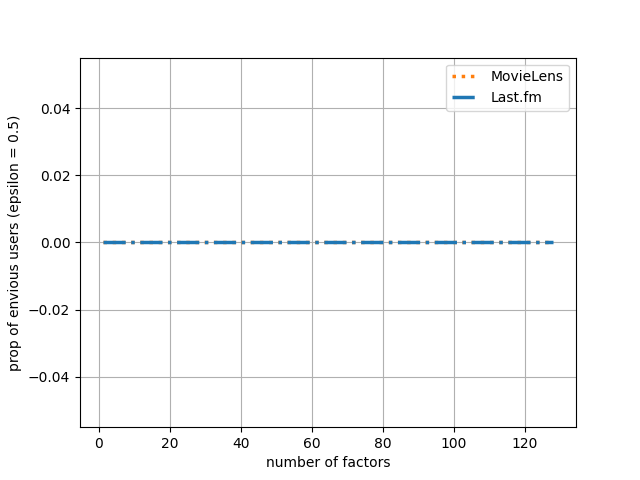
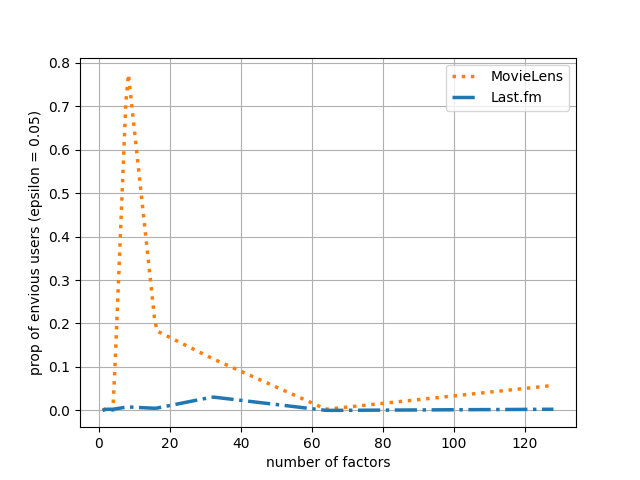
Custom logging

diff --git a/src/main.py b/src/main.py
@@ -112,6 +112,9 @@ if __name__ == "__main__":
     constant.MODELS_CHOSEN = model_choice
     my_globals = globals()
 
+    # Whether these pipeline modules are rebuild from scratch again
+    new_build = {"gt": False, "recommender": False}
+
     # For all datas sets requested by user generate recommender systems
     for label, name in data_sets_chosen.items(): 
         set_name = name.upper()
@@ -132,8 +135,10 @@ if __name__ == "__main__":
         log_path = helper.get_log_path(data_set)
 
         io.initialize_empty_file(log_path)
-        io.write_to_file(log_path, model_choice, mode="json")
         
+        if not path.exists(var_path_gt + constant.FILE_NAMES["gt"]):
+            new_build["gt"] = True
+
         # Generate ground truth matrix of user-item relevance scores
         exec(compile(open(data_set["filename"], "rb").read(), data_set["filename"], "exec"))
         
@@ -178,6 +183,7 @@ if __name__ == "__main__":
 
         # Generate models to simulate the recommender system's preference estimation
         if not path.exists(recommender_models_file_path):
+            new_build["recommender"] = True
             start = time.time()
             recommender_models = rec_generator.create_recommender_model(ground_truth, configurations, 
                                                                     rec_settings["ALGORITHM"], rec_settings["METRIC"], 
@@ -229,8 +235,9 @@ if __name__ == "__main__":
     # AUDITING EXPERIMENTS
     ##########################
     # Running option "all" experiments not yet supported
+        
+    # EXPERIMENT 5.1: sources of envy
     if experiment_choice == "5.1":
-        # EXPERIMENT 5.1: sources of envy
         for label, name in data_sets_chosen.items():
             data_set = data_sets[name]
             recommenders = os.listdir(constant.MODELS_FOLDER + data_set["var_folder"])    
@@ -251,7 +258,21 @@ if __name__ == "__main__":
         # Proportion of envious users plotted together
         # experiment.audits[0].params["basic"]["epsilon"]
         data = plot.gerenate_plot_data(data_sets_chosen, data_sets, "5.1", "prop_envious_users", "5.1_prop_envy_users")
-        plot.plot_experiment_line(data["lines"], "prop of envious users (epsilon = {})".format(0.5), "number of factors", data["labels"], data["linestyles"], data["colors"], data["file_name"], x_upper_bound=128)
+        plot.plot_experiment_line(data["lines"], "prop of envious users (epsilon = {})".format(0.05), "number of factors", data["labels"], data["linestyles"], data["colors"], data["file_name"], x_upper_bound=128)
 
-    # # # Try algorithm for one model
-    # # envy.OCEF(policies_fm[latent_factor], rewards_fm, 0, 3, 1, 1, 0)
+
+
+    # End of logging
+    for label, name in data_sets_chosen.items():
+        data_set = data_sets[name]
+        log_path = helper.get_log_path(data_set)
+
+        if new_build["gt"]:
+            io.write_to_file(log_path, "ground_truth_model")
+            io.write_to_file(log_path, model_choice[label]["ground_truth"], mode="json")
+        
+        if new_build["recommender"]:
+            io.write_to_file(log_path, "recommender_model")
+            io.write_to_file(log_path, model_choice[label]["recommender"], mode="json")
+        
+        io.write_to_file(log_path, "-------------------END---------------------")

diff --git a/src/classes/experiment.py b/src/classes/experiment.py
@@ -28,10 +28,12 @@ class Experiment(object):
             recommender = self.recommenders[i]
             audit = Audit(recommender)
             envy_per_user = audit.audit_envy(audit_mode="basic")
-            
+
+            # Average envy per user 
             latent_factor = recommender.params["latent_factor"]
             avg_envy_users[latent_factor] = np.mean(envy_per_user)
 
+            # Proportion envious users
             epsilon = audit.params["basic"]["epsilon"]
             prop_envious_users[latent_factor] = np.mean(envy_per_user > epsilon)
 

diff --git a/src/constant.py b/src/constant.py
@@ -6,8 +6,8 @@
 # Debug modus
 DEBUG = True
 DUMMY_DATA_SET_CHOICE = "all"
-DUMMY_MODEL_CHOICE = {"ground_truth": {"ALGORITHM": "als", "METRIC": "precision"}, 
-                        "recommender": {"ALGORITHM": "als", "METRIC": "precision", "normalize": False}} 
+DUMMY_MODEL_CHOICE = {"ground_truth": {"ALGORITHM": "als", "METRIC": "ndcg"}, 
+                        "recommender": {"ALGORITHM": "als", "METRIC": "ndcg", "normalize": True}} 
 DUMMY_EXPERIMENT_CHOICE = "5.1"
 
 

diff --git a/src/lib/helper.py b/src/lib/helper.py
@@ -77,7 +77,7 @@ def get_current_datetime():
     # datetime object containing current date and time
     now = datetime.now()
     # dd/mm/YY H:M:S
-    return now.strftime("%d-%m-%Y_%H:%M:%S")
+    return now.strftime("%d/%m/%Y_%H:%M:%S")
 
 def merge_duplicates(df, col_duplicate, col_merge_value, mode_operation="sum"):
     """

diff --git a/src/classes/audit.py b/src/classes/audit.py
@@ -12,7 +12,7 @@ class Audit(object):
 
         self.params = {
                 "basic": {
-                    "epsilon": 0.5
+                    "epsilon": 0.05
                 }
             }
 
